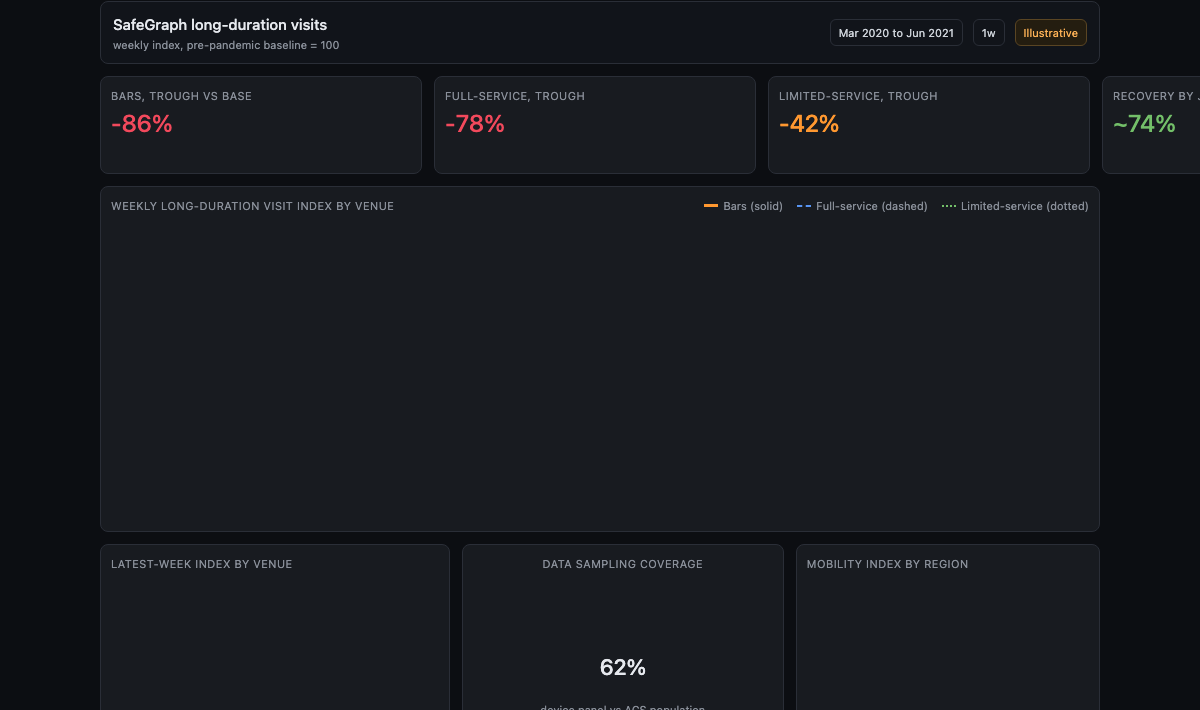
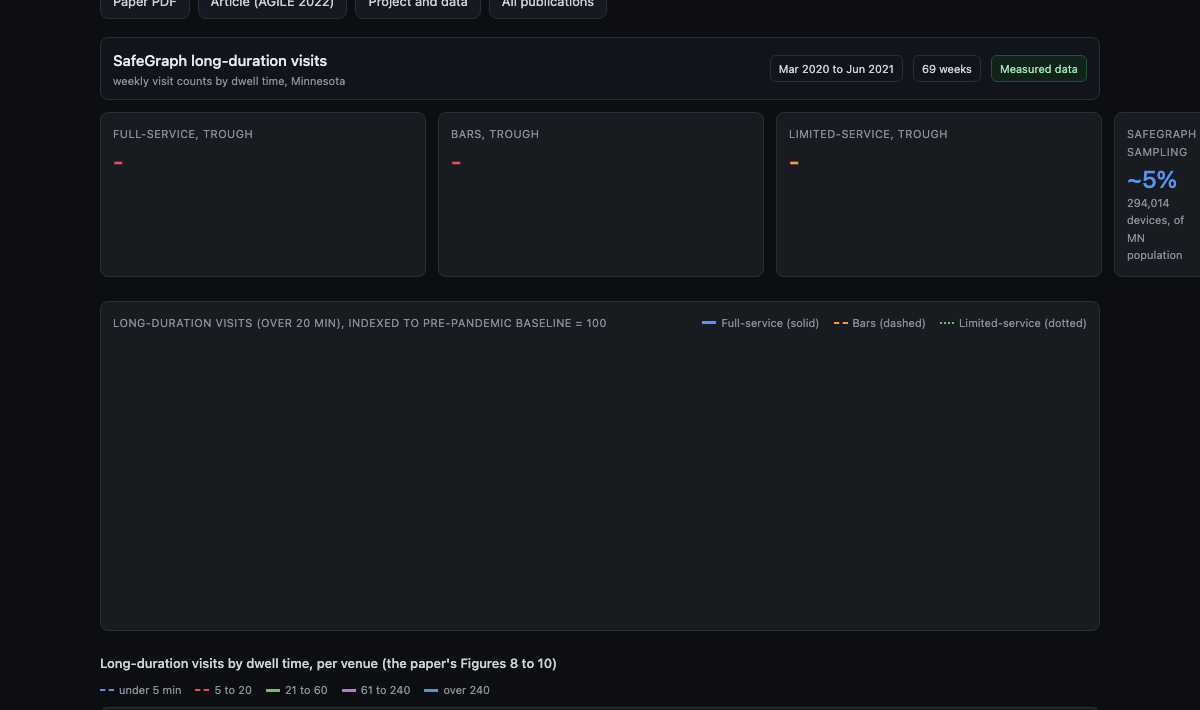
COVID dashboard: plot real SafeGraph long-duration visit data (AGILE 2022 Figs 8 to 10) and add source spreadsheets

diff --git a/projects/covid-mobility/index.html b/projects/covid-mobility/index.html
@@ -4,7 +4,7 @@
 <meta charset="utf-8">
 <meta name="viewport" content="width=device-width, initial-scale=1">
 <title>COVID-19 Mobility Decision Support - Arun Sharma</title>
-<meta name="description" content="A Grafana-style observability dashboard for the COVID-19 mobility decision-support project (Sharma et al., AGILE GIScience 2022): weekly long-duration visits to bars and restaurants in Minnesota with policy-intervention markers.">
+<meta name="description" content="A Grafana-style observability dashboard for the COVID-19 mobility decision-support project (Sharma et al., AGILE GIScience 2022): real weekly long-duration visits to bars and restaurants in Minnesota by dwell time, March 2020 to June 2021.">
 <link rel="canonical" href="https://arunshar.github.io/portfolio/projects/covid-mobility/">
 <style>
   :root{color-scheme:dark}
@@ -17,22 +17,26 @@
   .topnav a{color:#9aa0aa}
   h1{font-size:24px;font-weight:500;color:#e6e9ee;margin:0 0 4px}
   .meta{font-size:13px;color:#8a909a;margin:0 0 14px}
-  .btns{display:flex;flex-wrap:wrap;gap:8px;margin-bottom:22px}
+  .btns{display:flex;flex-wrap:wrap;gap:8px;margin-bottom:18px}
   .btn{font-size:13px;color:#cdd2d9;border:0.5px solid #2a2e37;border-radius:8px;padding:6px 12px;background:#161922}
   .btn:hover{border-color:#5794f2;color:#fff}
-  .pan{background:#181b20;border:0.5px solid #2a2e37;border-radius:8px;padding:10px}
+  .pan{background:#181b20;border:0.5px solid #2a2e37;border-radius:8px;padding:12px;margin-bottom:12px}
   .ttl{font-size:11px;color:#8a909a;letter-spacing:.04em;text-transform:uppercase;margin:0 0 6px}
   .big{font-size:24px;font-weight:500;line-height:1}
   .sub{font-size:11px;color:#8a909a;margin-top:3px}
   .grid4{display:grid;grid-template-columns:repeat(4,1fr);gap:12px;margin-bottom:12px}
-  .grid3{display:grid;grid-template-columns:1.15fr 0.85fr 1fr;gap:12px}
-  .head{display:flex;align-items:center;gap:10px;margin-bottom:12px;background:#11141a;border:0.5px solid #2a2e37;border-radius:8px;padding:10px 12px}
+  .head{display:flex;align-items:center;flex-wrap:wrap;gap:10px;margin-bottom:12px;background:#11141a;border:0.5px solid #2a2e37;border-radius:8px;padding:10px 12px}
   .pill{font-size:11px;color:#cdd2d9;border:0.5px solid #2a2e37;border-radius:6px;padding:4px 8px}
-  .pill.warn{color:#ffb357;border-color:#5a4523;background:#241d10}
-  .about{margin-top:26px;font-size:14px;color:#aeb4be;max-width:780px}
+  .pill.ok{color:#9fe3b0;border-color:#28503a;background:#10231a}
+  .legend{display:flex;flex-wrap:wrap;gap:14px;font-size:11px;color:#8a909a}
+  .legend span{display:flex;align-items:center;gap:5px}
+  .swatch{width:14px;height:0;display:inline-block}
+  .totrow{display:flex;flex-wrap:wrap;gap:14px;font-size:11px;color:#9aa0aa;margin-top:6px}
+  .sec{font-size:13px;color:#cdd2d9;font-weight:500;margin:22px 0 8px}
+  .about{margin-top:24px;font-size:14px;color:#aeb4be;max-width:800px}
   .about h2{font-size:17px;font-weight:500;color:#e6e9ee;margin:22px 0 8px}
-  .note{margin-top:14px;font-size:12.5px;color:#8a909a;border-left:2px solid #5a4523;padding:8px 12px;background:#16140d;border-radius:0}
-  @media(max-width:760px){.grid4{grid-template-columns:repeat(2,1fr)}.grid3{grid-template-columns:1fr}}
+  .note{margin-top:14px;font-size:12.5px;color:#8a909a;border-left:2px solid #28503a;padding:8px 12px;background:#0f1814;border-radius:0}
+  @media(max-width:760px){.grid4{grid-template-columns:repeat(2,1fr)}}
 </style>
 </head>
 <body>
@@ -51,104 +55,104 @@
   <div class="head">
     <div style="flex:1">
       <div style="font-size:15px;font-weight:500;color:#e6e9ee">SafeGraph long-duration visits</div>
-      <div style="font-size:11px;color:#8a909a">weekly index, pre-pandemic baseline = 100</div>
+      <div style="font-size:11px;color:#8a909a">weekly visit counts by dwell time, Minnesota</div>
     </div>
     <span class="pill">Mar 2020 to Jun 2021</span>
-    <span class="pill">1w</span>
-    <span class="pill warn">Illustrative</span>
+    <span class="pill">69 weeks</span>
+    <span class="pill ok">Measured data</span>
   </div>
 
   <div class="grid4">
-    <div class="pan"><div class="ttl">Bars, trough vs base</div><div class="big" style="color:#f2495c">-86%</div><div style="height:28px;position:relative"><canvas id="sp1" role="img" aria-label="Bars sparkline"></canvas></div></div>
-    <div class="pan"><div class="ttl">Full-service, trough</div><div class="big" style="color:#f2495c">-78%</div><div style="height:28px;position:relative"><canvas id="sp2" role="img" aria-label="Full-service sparkline"></canvas></div></div>
-    <div class="pan"><div class="ttl">Limited-service, trough</div><div class="big" style="color:#ff9830">-42%</div><div style="height:28px;position:relative"><canvas id="sp3" role="img" aria-label="Limited-service sparkline"></canvas></div></div>
-    <div class="pan"><div class="ttl">Recovery by Jun 2021</div><div class="big" style="color:#73bf69">~74%</div><div style="height:28px;position:relative"><canvas id="sp4" role="img" aria-label="Recovery sparkline"></canvas></div></div>
+    <div class="pan"><div class="ttl">Full-service, trough</div><div class="big" style="color:#f2495c" id="fsrD">-</div><div class="sub" id="fsrS"></div><div style="height:26px;position:relative;margin-top:4px"><canvas id="sp1" role="img" aria-label="Full-service long-duration visits sparkline"></canvas></div></div>
+    <div class="pan"><div class="ttl">Bars, trough</div><div class="big" style="color:#f2495c" id="barsD">-</div><div class="sub" id="barsS"></div><div style="height:26px;position:relative;margin-top:4px"><canvas id="sp2" role="img" aria-label="Bars long-duration visits sparkline"></canvas></div></div>
+    <div class="pan"><div class="ttl">Limited-service, trough</div><div class="big" style="color:#ff9830" id="lsrD">-</div><div class="sub" id="lsrS"></div><div style="height:26px;position:relative;margin-top:4px"><canvas id="sp3" role="img" aria-label="Limited-service long-duration visits sparkline"></canvas></div></div>
+    <div class="pan"><div class="ttl">SafeGraph sampling</div><div class="big" style="color:#5794f2">~5%</div><div class="sub">294,014 devices, of MN population</div></div>
   </div>
 
-  <div class="pan" style="margin-bottom:12px">
+  <div class="pan">
     <div style="display:flex;align-items:center;justify-content:space-between;flex-wrap:wrap;gap:8px;margin-bottom:6px">
-      <div class="ttl" style="margin:0">Weekly long-duration visit index by venue</div>
-      <div style="display:flex;gap:14px;font-size:11px;color:#8a909a">
-        <span style="display:flex;align-items:center;gap:5px"><span style="width:14px;height:3px;background:#ff9830;display:inline-block"></span>Bars (solid)</span>
-        <span style="display:flex;align-items:center;gap:5px"><span style="width:14px;height:0;border-top:2px dashed #5794f2;display:inline-block"></span>Full-service (dashed)</span>
-        <span style="display:flex;align-items:center;gap:5px"><span style="width:14px;height:0;border-top:2px dotted #73bf69;display:inline-block"></span>Limited-service (dotted)</span>
+      <div class="ttl" style="margin:0">Long-duration visits (over 20 min), indexed to pre-pandemic baseline = 100</div>
+      <div class="legend">
+        <span><span class="swatch" style="border-top:3px solid #5794f2"></span>Full-service (solid)</span>
+        <span><span class="swatch" style="border-top:2px dashed #ff9830"></span>Bars (dashed)</span>
+        <span><span class="swatch" style="border-top:2px dotted #73bf69"></span>Limited-service (dotted)</span>
       </div>
     </div>
-    <div style="height:300px;position:relative"><canvas id="ts" role="img" aria-label="Weekly long-duration visit index for bars, full-service and limited-service restaurants from March 2020 to June 2021, showing a sharp March 2020 collapse, partial recovery, a winter 2020 dip at the dining closure, and recovery through spring 2021."></canvas></div>
+    <div style="height:280px;position:relative"><canvas id="overview" role="img" aria-label="Long-duration visits indexed to pre-pandemic baseline for full-service, bars, and limited-service, March 2020 to June 2021, showing a sharp April 2020 collapse, recovery, a winter 2020 dip at the dining closure, and recovery through spring 2021."></canvas></div>
   </div>
 
-  <div class="grid3">
-    <div class="pan">
-      <div class="ttl">Latest-week index by venue</div>
-      <div style="height:160px;position:relative"><canvas id="bar" role="img" aria-label="Latest-week visit index by venue."></canvas></div>
-    </div>
-    <div class="pan" style="text-align:center">
-      <div class="ttl">Data sampling coverage</div>
-      <div style="height:120px;position:relative"><canvas id="g" role="img" aria-label="Sampling coverage gauge at 62 percent."></canvas>
-        <div style="position:absolute;top:60%;left:0;right:0"><div style="font-size:22px;font-weight:500;color:#e6e9ee">62%</div></div>
-      </div>
-      <div class="sub">device panel vs ACS population</div>
-    </div>
-    <div class="pan">
-      <div class="ttl">Mobility index by region</div>
-      <div id="regions" style="display:grid;grid-template-columns:1fr 1fr;gap:8px"></div>
-    </div>
+  <div class="sec">Long-duration visits by dwell time, per venue (the paper's Figures 8 to 10)</div>
+  <div class="legend" style="margin-bottom:8px">
+    <span><span class="swatch" style="border-top:2px dashed #5794f2"></span>under 5 min</span>
+    <span><span class="swatch" style="border-top:2px dashed #f2495c"></span>5 to 20</span>
+    <span><span class="swatch" style="border-top:3px solid #73bf69"></span>21 to 60</span>
+    <span><span class="swatch" style="border-top:3px solid #b877d9"></span>61 to 240</span>
+    <span><span class="swatch" style="border-top:3px solid #3aa6b9"></span>over 240</span>
   </div>
+
+  <div class="pan"><div class="ttl" id="t-fsr">Full-service restaurants</div><div style="height:230px;position:relative"><canvas id="v-fsr" role="img" aria-label="Full-service restaurant weekly visits by dwell-time bucket."></canvas></div><div class="totrow" id="tot-fsr"></div></div>
+  <div class="pan"><div class="ttl" id="t-lsr">Limited-service restaurants</div><div style="height:230px;position:relative"><canvas id="v-lsr" role="img" aria-label="Limited-service restaurant weekly visits by dwell-time bucket."></canvas></div><div class="totrow" id="tot-lsr"></div></div>
+  <div class="pan"><div class="ttl" id="t-bars">Bars</div><div style="height:230px;position:relative"><canvas id="v-bars" role="img" aria-label="Bar weekly visits by dwell-time bucket."></canvas></div><div class="totrow" id="tot-bars"></div></div>
 
   <div class="about">
     <h2>About this dashboard</h2>
-    <p>The COVID-19 pandemic reshaped where and how long people gathered. This panel reframes the
-    community-engaged decision-support system from Sharma <em>et al.</em> (AGILE: GIScience Series,
-    2022) as an observability dashboard. The underlying system was built with policymakers in public
-    health, economic management, transportation, and transit to answer questions about long-duration
-    visits to high-risk venue categories (bars, full-service restaurants, limited-service
-    restaurants) from aggregated, privacy-protected mobile-device data, alongside fine-resolution
-    device-count maps to expose spatial sampling bias.</p>
-    <p>The time series tracks the weekly long-duration-visit index per venue type, normalized to a
-    pre-pandemic baseline of 100, with markers at the major Minnesota policy interventions
-    (stay-at-home order, phased reopening, the winter 2020 dining closure, and spring 2021
-    reopening). The gauge and the regional panel summarize data quality and geographic spread, the
-    two recurring concerns end-users raised when interpreting the reports.</p>
-    <div class="note">Illustrative UI. The curves model the documented 2020 to 2021 mobility pattern
-    and are not the project's measured weekly figures. For the measured data and the weekly report
-    archive, see the <a href="https://www.spatial.cs.umn.edu/Project/covid_19.html" target="_blank" rel="noopener">project page</a>.
-    Source: Arun Sharma, Majid Farhadloo, Yan Li, Jayant Gupta, Aditya Kulkarni, Shashi Shekhar,
-    "Understanding COVID-19 Effects on Mobility: A Community-Engaged Approach,"
+    <p>This panel reframes the community-engaged decision-support system from Sharma <em>et al.</em>
+    (AGILE: GIScience Series, 2022) as an observability dashboard. The system was built with
+    policymakers in public health, economic management, transportation, and transit to track
+    long-duration visits to high-risk venue categories from aggregated, privacy-protected
+    SafeGraph mobile-device data.</p>
+    <p>The charts plot the project's measured weekly visit counts to bars, full-service restaurants,
+    and limited-service restaurants in Minnesota, broken out by dwell-time bucket (under 5, 5 to 20,
+    21 to 60, 61 to 240, and over 240 minutes), from March 2020 to June 2021. Markers show the major
+    Minnesota policy interventions (the March 27, 2020 stay-at-home order, the June 2020 reopening,
+    the November 2020 dining shutdown, and the January 2021 reopening). The per-venue panels mirror
+    Figures 8 to 10 of the paper; the overview indexes the long-duration visits (over 20 minutes) of
+    each venue to its own pre-pandemic baseline so the three are comparable on one axis.</p>
+    <div class="note">Data: the project's weekly SafeGraph long-duration-visit reports, 07/16/2021
+    release (69 weeks, 03/02/2020 to 06/28/2021). Source spreadsheets:
+    <a href="data/Full_service_restaurant_0716.xlsx">full-service</a>,
+    <a href="data/Limited_service_restaurants_0716.xlsx">limited-service</a>,
+    <a href="data/Bars_0716.xlsx">bars</a>. SafeGraph covers about 5 percent of the Minnesota
+    population (294,014 devices); see the paper for the sampling-bias analysis. Citation: Arun Sharma,
+    Majid Farhadloo, Yan Li, Jayant Gupta, Aditya Kulkarni, Shashi Shekhar, "Understanding COVID-19
+    Effects on Mobility: A Community-Engaged Approach,"
     <a href="https://doi.org/10.5194/agile-giss-3-14-2022" target="_blank" rel="noopener">AGILE: GIScience Series 3:14 (2022)</a>, CC-BY 4.0.</div>
   </div>
 </div>
 
+<script src="covid-data.js"></script>
 <script src="https://cdnjs.cloudflare.com/ajax/libs/Chart.js/4.4.1/chart.umd.js"></script>
 <script>
 (function(){
-  var n=69;
-  function lerp(a){var o=[];for(var w=0;w<n;w++){var lo=a[0],hi=a[a.length-1];for(var i=0;i<a.length-1;i++){if(w>=a[i][0]&&w<=a[i+1][0]){lo=a[i];hi=a[i+1];break;}}var t=hi[0]===lo[0]?0:(w-lo[0])/(hi[0]-lo[0]);o.push(lo[1]+(hi[1]-lo[1])*t);}return o;}
-  var seed=42;function rnd(){seed=(seed*1103515245+12345)&0x7fffffff;return seed/0x7fffffff;}
-  function jit(arr,amp){return arr.map(function(v){return Math.max(0,Math.round((v+(rnd()-0.5)*2*amp)*10)/10);});}
-  var bars=jit(lerp([[0,100],[3,90],[5,18],[7,14],[12,30],[20,48],[30,55],[35,50],[38,22],[42,20],[46,35],[52,50],[60,62],[68,72]]),2.2);
-  var fsr =jit(lerp([[0,100],[3,92],[6,26],[8,22],[14,45],[22,58],[32,62],[38,30],[43,33],[50,55],[60,68],[68,74]]),2);
-  var lsr =jit(lerp([[0,100],[4,70],[7,58],[12,72],[20,82],[30,88],[38,78],[44,82],[52,88],[60,92],[68,94]]),1.6);
-  var labels=[];var d=new Date(2020,2,2);var mo=['Jan','Feb','Mar','Apr','May','Jun','Jul','Aug','Sep','Oct','Nov','Dec'];
-  for(var i=0;i<n;i++){labels.push((d.getDate()<=7?mo[d.getMonth()]+(d.getMonth()===0?" '"+String(d.getFullYear()).slice(2):""):''));d=new Date(d.getTime()+7*864e5);}
+  var C=window.COVID; if(!C){return;}
   var grid='rgba(140,144,154,0.13)',tick='#8a909a';
-  function spark(id,data,col){new Chart(document.getElementById(id),{type:'line',data:{labels:data.map(function(_,i){return i;}),datasets:[{data:data,borderColor:col,borderWidth:1.5,pointRadius:0,tension:.35,fill:false}]},options:{responsive:true,maintainAspectRatio:false,plugins:{legend:{display:false},tooltip:{enabled:false}},scales:{x:{display:false},y:{display:false}}}});}
-  spark('sp1',bars,'#ff9830');spark('sp2',fsr,'#5794f2');spark('sp3',lsr,'#ff9830');spark('sp4',bars.slice(40),'#73bf69');
+  var BC={"<5":"#5794f2","5-20":"#f2495c","21-60":"#73bf69","61-240":"#b877d9",">240":"#3aa6b9"};
+  var BD={"<5":[5,4],"5-20":[5,4],"21-60":[],"61-240":[],">240":[]};
+  var VC={"Full-service restaurants":"#5794f2","Bars":"#ff9830","Limited-service restaurants":"#73bf69"};
+  var VD={"Full-service restaurants":[],"Bars":[6,4],"Limited-service restaurants":[2,3]};
+  function kfmt(v){return v>=1000?(Math.round(v/100)/10)+'k':v;}
+  function nf(v){return v.toLocaleString();}
+  var vlines={id:'vl',afterDraw:function(c){var a=c.$vl||[];var ca=c.chartArea,x=c.scales.x,ctx=c.ctx;ctx.save();a.forEach(function(o){var px=x.getPixelForValue(o.i);ctx.strokeStyle='rgba(200,205,215,0.30)';ctx.setLineDash([4,4]);ctx.beginPath();ctx.moveTo(px,ca.top);ctx.lineTo(px,ca.bottom);ctx.stroke();ctx.setLineDash([]);ctx.fillStyle='#aeb4be';ctx.font='10px sans-serif';ctx.fillText(o.t,px+3,ca.top+10);});ctx.restore();}};
 
-  var vlines={id:'vl',afterDraw:function(c){var a=c.$vl||[];var ca=c.chartArea,x=c.scales.x,ctx=c.ctx;ctx.save();a.forEach(function(o){var px=x.getPixelForValue(o.i);ctx.strokeStyle='rgba(200,205,215,0.32)';ctx.setLineDash([4,4]);ctx.beginPath();ctx.moveTo(px,ca.top);ctx.lineTo(px,ca.bottom);ctx.stroke();ctx.setLineDash([]);ctx.fillStyle='#aeb4be';ctx.font='11px sans-serif';ctx.fillText(o.t,px+3,ca.top+11);});ctx.restore();}};
-  var ts=new Chart(document.getElementById('ts'),{type:'line',plugins:[vlines],data:{labels:labels,datasets:[
-    {label:'Bars',data:bars,borderColor:'#ff9830',borderWidth:1.8,pointRadius:0,tension:.3},
-    {label:'Full-service',data:fsr,borderColor:'#5794f2',borderWidth:1.8,borderDash:[6,4],pointRadius:0,tension:.3},
-    {label:'Limited-service',data:lsr,borderColor:'#73bf69',borderWidth:1.8,borderDash:[2,3],pointRadius:0,tension:.3}
-  ]},options:{responsive:true,maintainAspectRatio:false,interaction:{mode:'index',intersect:false},plugins:{legend:{display:false},tooltip:{backgroundColor:'#0c0e12',borderColor:'#2a2e37',borderWidth:1}},scales:{x:{grid:{color:grid},ticks:{color:tick,autoSkip:false,maxRotation:0,font:{size:11}}},y:{grid:{color:grid},ticks:{color:tick,font:{size:11}},title:{display:true,text:'index (base=100)',color:tick,font:{size:11}}}}});
-  ts.$vl=[{i:4,t:'stay-at-home'},{i:14,t:'phase reopen'},{i:38,t:'dining closed'},{i:50,t:'reopen'}];ts.update();
+  function spark(id,data,col){new Chart(document.getElementById(id),{type:'line',data:{labels:data.map(function(_,i){return i;}),datasets:[{data:data,borderColor:col,borderWidth:1.4,pointRadius:0,tension:.3}]},options:{responsive:true,maintainAspectRatio:false,plugins:{legend:{display:false},tooltip:{enabled:false}},scales:{x:{display:false},y:{display:false}}}});}
+  var tiles=[["Full-service restaurants","sp1","fsrD","fsrS"],["Bars","sp2","barsD","barsS"],["Limited-service restaurants","sp3","lsrD","lsrS"]];
+  tiles.forEach(function(t){var s=C.long[t[0]];var dr=Math.round(100*(1-Math.min.apply(null,s)/s[0]));
+    document.getElementById(t[2]).textContent='-'+dr+'%';
+    document.getElementById(t[3]).textContent='vs baseline (Apr 2020)';
+    spark(t[1],s,VC[t[0]]);});
 
-  new Chart(document.getElementById('bar'),{type:'bar',data:{labels:['Bars','Full-service','Limited-service'],datasets:[{data:[bars[68],fsr[68],lsr[68]],backgroundColor:['#ff9830','#5794f2','#73bf69'],borderRadius:3}]},options:{indexAxis:'y',responsive:true,maintainAspectRatio:false,plugins:{legend:{display:false},tooltip:{enabled:true}},scales:{x:{grid:{color:grid},ticks:{color:tick,font:{size:11}},suggestedMax:100},y:{grid:{display:false},ticks:{color:'#c7ccd4',font:{size:11}}}}});
+  function ov(){var ds=["Full-service restaurants","Bars","Limited-service restaurants"].map(function(v){var s=C.long[v];var b0=s[0];return {label:v,data:s.map(function(x){return Math.round(100*x/b0);}),borderColor:VC[v],borderDash:VD[v],borderWidth:1.8,pointRadius:0,tension:.25};});
+    var ch=new Chart(document.getElementById('overview'),{type:'line',plugins:[vlines],data:{labels:C.labels,datasets:ds},options:{responsive:true,maintainAspectRatio:false,interaction:{mode:'index',intersect:false},plugins:{legend:{display:false},tooltip:{backgroundColor:'#0c0e12',borderColor:'#2a2e37',borderWidth:1}},scales:{x:{grid:{color:grid},ticks:{color:tick,autoSkip:false,maxRotation:0,font:{size:10}}},y:{grid:{color:grid},ticks:{color:tick,font:{size:10}},title:{display:true,text:'index (baseline=100)',color:tick,font:{size:10}}}}});
+    ch.$vl=C.ann;ch.update();}
+  ov();
 
-  new Chart(document.getElementById('g'),{type:'doughnut',data:{datasets:[{data:[62,38],backgroundColor:['#73bf69','#23272f'],borderWidth:0,circumference:260,rotation:230}]},options:{responsive:true,maintainAspectRatio:false,cutout:'74%',plugins:{legend:{display:false},tooltip:{enabled:false}}}});
-
-  var reg=[['Twin Cities Metro',58],['Rochester',64],['Duluth',61],['St. Cloud',69],['Mankato',72],['Greater MN',75]];
-  function hcol(v){var t=(v-55)/22;t=Math.max(0,Math.min(1,t));var r=Math.round(242+(115-242)*t),g=Math.round(73+(191-73)*t),b=Math.round(92+(105-92)*t);return 'rgb('+r+','+g+','+b+')';}
-  document.getElementById('regions').innerHTML=reg.map(function(o){return '<div style="background:#14171c;border:0.5px solid #2a2e37;border-radius:6px;padding:6px 8px"><div style="font-size:11px;color:#aeb4be">'+o[0]+'</div><div style="font-size:16px;font-weight:500;color:'+hcol(o[1])+'">'+o[1]+'</div></div>';}).join('');
+  function venue(id,v,totId){var ds=C.buckets.map(function(b){return {label:b,data:C.series[v][b],borderColor:BC[b],borderDash:BD[b],borderWidth:1.5,pointRadius:0,tension:.22};});
+    var ch=new Chart(document.getElementById(id),{type:'line',plugins:[vlines],data:{labels:C.labels,datasets:ds},options:{responsive:true,maintainAspectRatio:false,interaction:{mode:'index',intersect:false},plugins:{legend:{display:false},tooltip:{backgroundColor:'#0c0e12',borderColor:'#2a2e37',borderWidth:1}},scales:{x:{grid:{color:grid},ticks:{color:tick,autoSkip:false,maxRotation:0,font:{size:10}}},y:{grid:{color:grid},ticks:{color:tick,font:{size:10},callback:function(val){return kfmt(val);}},title:{display:true,text:'visits',color:tick,font:{size:10}}}}});
+    ch.$vl=C.ann;ch.update();
+    var t=C.totals[v];document.getElementById(totId).innerHTML='Total visits: '+C.buckets.map(function(b){return '<span><span style="color:'+BC[b]+'">&#9632;</span> '+b+': '+nf(t[b])+'</span>';}).join('');}
+  venue('v-fsr',"Full-service restaurants",'tot-fsr');
+  venue('v-lsr',"Limited-service restaurants",'tot-lsr');
+  venue('v-bars',"Bars",'tot-bars');
 })();
 </script>
 </body>

diff --git a/projects/covid-mobility/covid-data.js b/projects/covid-mobility/covid-data.js
@@ -1,0 +1,1 @@
+window.COVID={"buckets":["<5","5-20","21-60","61-240",">240"],"longBuckets":["21-60","61-240",">240"],"weeks":["03/02-03/09","03/09-03/16","03/16-03/23","03/23-03/30","03/30-04/06","04/06-04/13","04/13-04/20","04/20-04/27","04/27-05/04","05/04-05/11","05/11-05/18","05/18-05/25","05/25-06/01","06/01-06/08","06/08-06/15","06/15-06/22","06/22-06/29","06/29-07/06","07/06-07/13","07/13-07/20","07/20-07/27","07/27-08/03","08/03-08/10","08/10-08/17","08/17-08/24","08/24-08/31","08/31-09/07","09/07-09/14","09/14-09/21","09/21-09/28","09/28-10/05","10/05-10/12","10/12-10/19","10/19-10/26","10/26-11/02","11/02-11/09","11/09-11/16","11/16-11/23","11/23-11/30","11/30-12/07","12/07-12/14","12/14-12/21","12/21-12/28","12/28-01/04","01/04-01/11","01/11-01/18","01/18-01/25","01/25-02/01","02/01-02/08","02/08-02/15","02/15-02/22","02/15-03/01","03/01-03/08","03/08-03/15","03/15-03/22","03/22-03/29","03/29-04/05","04/05-04/12","04/12-04/19","04/19-04/26","04/26-05/02","05/03-05/10","05/10-05/17","05/17-05/24","05/24-05/31","05/31-06/07","06/07-06/14","06/14-06/21","06/21-06/28"],"labels":["Mar'20","","","","","Apr","","","","May","","","","Jun","","","","","Jul","","","","Aug","","","","","Sep","","","","Oct","","","","Nov","","","","","Dec","","","","Jan'21","","","","Feb","","","","Mar","","","","","Apr","","","","May","","","","","Jun","",""],"ann":[{"i":4,"t":"stay-at-home"},{"i":14,"t":"reopen"},{"i":38,"t":"dining closed"},{"i":45,"t":"reopen"}],"series":{"Full-service restaurants":{"<5":[7913,6554,4751,4909,4375,3792,3486,4433,4693,5007,4951,5243,5634,6435,6178,6087,7406,6296,6583,7042,6958,7461,6943,7615,8619,7362,7612,6804,6300,7152,7671,7218,6749,6566,6249,5735,5049,4890,4526,5787,5758,5775,4122,5354,5472,5302,4865,4696,4867,5164,5716,6220,6330,6420,6569,6266,6926,7481,6961,6455,6575,7017,7341,6841,5968,5448,5172,5520,5314],"5-20":[106033,91356,54059,52144,49830,47218,52467,60688,63978,67681,64801,72128,72496,83204,85571,87807,92781,86856,91329,93532,94473,98663,95373,94720,99232,87970,93983,85382,83598,85865,83907,87013,82298,73486,75434,75451,64675,65647,56043,66132,65336,67369,51715,62929,63854,64834,62807,64606,62774,67409,72321,78865,80182,82409,84421,81923,82435,92844,86968,84339,89657,97030,97900,98394,98793,95612,93912,95741,94112],"21-60":[124950,107992,27286,17716,16234,15813,16232,19365,21076,23142,22186,26354,27343,48173,63864,75045,79676,72852,80668,82121,82332,85351,84779,88353,92340,82658,89890,81455,80679,82292,78618,81375,80219,70944,69366,68442,56696,46963,20621,25073,24561,25817,19927,24317,26208,58932,59776,61376,57756,63684,66079,70296,71459,74822,80103,77509,74039,75156,78977,79228,82159,90197,91069,93042,91266,93304,93996,98206,96883],"61-240":[114903,95688,27194,19211,16525,15643,15307,18255,19249,19760,20241,22553,22629,42735,54048,62428,64774,56189,64472,66175,67034,70444,69107,71455,74467,67448,73620,71482,71016,72999,69083,71268,70380,66242,62951,59185,50839,44362,19235,22861,23076,24144,18073,22234,25422,57950,56319,59190,56064,62591,63603,66278,65199,66967,72077,67536,60593,65416,68661,70807,70479,81571,76783,78922,78377,77041,80116,85709,82844],">240":[40323,36021,22505,20437,15049,14386,14194,16180,16285,15628,17009,18381,17885,20351,21728,22547,23682,21222,22266,23592,24313,26393,25193,25365,26340,24260,25585,25429,25283,26647,25163,23771,24451,23774,23402,22944,20311,20122,14104,16764,16985,16990,13747,15550,17943,20593,20006,21414,20634,20319,20540,19976,19916,20155,19525,19418,19566,20081,20337,19991,20117,21005,21495,21737,21965,20877,21847,22192,23117]},"Bars":{"<5":[116,70,57,46,37,32,30,54,63,55,46,50,60,86,79,94,112,77,85,90,95,108,84,127,123,114,119,117,106,119,107,124,99,94,93,78,50,48,46,63,84,93,51,71,64,55,74,57,58,66,76,76,96,79,90,81,99,117,106,92,88,83,108,113,100,88,82,81,65],"5-20":[1578,1364,705,547,481,456,435,540,637,643,642,814,815,1005,1136,1110,1226,1105,1243,1284,1324,1376,1515,1326,1353,1232,1421,1242,1337,1382,1275,1354,1169,988,943,937,826,755,759,836,858,986,889,934,758,817,844,800,794,853,1025,1019,1049,1099,1229,1124,1291,1391,1116,1170,1226,1391,1363,1388,1458,1256,1205,1321,1325],"21-60":[1858,1589,415,266,199,188,176,237,314,273,362,384,448,940,1115,1287,1339,1141,1344,1418,1469,1536,1564,1582,1633,1506,1636,1400,1426,1475,1272,1534,1317,1129,1049,1138,798,779,513,544,569,670,595,726,537,967,1009,950,897,1006,1143,1088,1155,1172,1391,1271,1360,1267,1287,1309,1404,1429,1603,1547,1527,1425,1359,1528,1470],"61-240":[2546,2130,443,294,226,196,207,232,294,300,304,372,383,844,1141,1201,1248,1055,1335,1333,1396,1443,1498,1552,1600,1313,1522,1436,1564,1515,1394,1555,1377,1342,1273,1187,984,754,342,430,439,517,455,464,431,1109,1094,1244,1162,1376,1351,1383,1400,1486,1688,1635,1554,1588,1528,1667,1707,1780,1721,1885,1836,1759,1663,1842,1901],">240":[838,772,416,320,217,214,228,281,299,221,282,280,267,342,357,358,399,359,452,452,494,472,458,455,440,360,419,399,401,361,374,364,412,394,385,360,323,247,235,285,278,304,265,286,319,369,333,386,350,385,372,375,351,348,342,347,361,435,451,438,426,414,434,380,439,331,427,382,404]},"Limited-service restaurants":{"<5":[9122,7986,5912,6355,6153,5641,5579,6909,7021,7342,7485,7934,8015,9210,8840,8456,9772,8526,9169,9606,9583,9611,9606,10081,11197,9622,9750,9430,8643,9874,10276,9802,9618,9226,9187,8437,7827,7574,6847,8724,8783,8743,6144,8124,8579,7741,7743,7651,7729,7961,9143,9908,10315,10117,10084,9906,10276,10748,10718,9851,9435,10059,10380,9905,7199,6677,6324,6374,6430],"5-20":[108845,93452,60599,63195,66244,64682,76894,89756,97487,95626,94107,104962,109143,117346,113152,110208,115112,110478,114357,116905,118889,123314,117414,115508,116911,108709,113478,108760,105552,105934,105228,108515,102269,88607,95999,97610,82777,87806,81717,96994,94542,97247,73032,95294,91767,78391,80079,80567,78654,85469,98437,111655,115778,116850,122911,116450,118712,125554,121655,119054,130368,136955,141116,140554,137947,144881,137107,134190,132740],"21-60":[48815,38381,13337,10911,10882,10298,11353,13458,15105,14989,14860,17155,18016,21805,22622,22663,25083,22709,25018,25631,25925,27210,26474,27020,28087,25949,26964,25265,24238,23958,23673,24214,24104,21516,22306,21599,18272,18167,14292,17643,17666,18198,13462,17166,17493,17736,17527,18099,17886,18209,19144,21128,22202,22174,23739,22775,23613,23919,24902,24090,25687,27362,28443,29216,27494,28865,28106,28270,28263],"61-240":[28208,20779,11650,9603,9053,8545,8690,9936,10180,10627,11054,11576,11529,14404,15024,14872,15852,13308,14721,15771,15681,15790,15443,15840,16343,16211,16671,16462,15756,16515,15802,16344,16299,15560,15305,14621,13657,13331,10122,12525,12929,13389,9611,11543,12856,13897,13658,14232,14210,13965,14593,15176,14976,14592,15382,15056,14783,15994,16247,16087,16097,16515,17057,17809,16935,16313,15731,15787,15907],">240":[14617,11630,9188,8331,7310,6718,6653,7504,7742,7808,8177,8667,8500,9594,9633,9927,10170,8487,8740,9414,9896,9507,9421,9481,10024,9392,9627,9331,8764,9006,8985,8952,9029,8696,9052,8404,7889,7689,6599,7899,8026,8295,6464,7445,8190,7964,7867,8407,8105,7654,8197,8088,7749,7731,7809,7674,7642,7833,7937,7727,8185,8345,8559,8752,8346,8497,8477,8737,8978]}},"totals":{"Full-service restaurants":{"<5":416949,"5-20":5446795,"21-60":4416678,"61-240":3867499,">240":1467323},"Bars":{"<5":5646,"5-20":73095,"21-60":74254,"61-240":81226,">240":25724},"Limited-service restaurants":{"<5":592995,"5-20":7262497,"21-60":1522801,"61-240":1000987,">240":590133}},"long":{"Full-service restaurants":[280176,239701,76985,57364,47808,45842,45733,53800,56610,58530,59436,67288,67857,111259,139640,160020,168132,150263,167406,171888,173679,182188,179079,185173,193147,174366,189095,178366,176978,181938,172864,176414,175050,160960,155719,150571,127846,111447,53960,64698,64622,66951,51747,62101,69573,137475,136101,141980,134454,146594,150222,156550,156574,161944,171705,164463,154198,160653,167975,170026,172755,192773,189347,193701,191608,191222,195959,206107,202844],"Bars":[5242,4491,1274,880,642,598,611,750,907,794,948,1036,1098,2126,2613,2846,2986,2555,3131,3203,3359,3451,3520,3589,3673,3179,3577,3235,3391,3351,3040,3453,3106,2865,2707,2685,2105,1780,1090,1259,1286,1491,1315,1476,1287,2445,2436,2580,2409,2767,2866,2846,2906,3006,3421,3253,3275,3290,3266,3414,3537,3623,3758,3812,3802,3515,3449,3752,3775],"Limited-service restaurants":[91640,70790,34175,28845,27245,25561,26696,30898,33027,33424,34091,37398,38045,45803,47279,47462,51105,44504,48479,50816,51502,52507,51338,52341,54454,51552,53262,51058,48758,49479,48460,49510,49432,45772,46663,44624,39818,39187,31013,38067,38621,39882,29537,36154,38539,39597,39052,40738,40201,39828,41934,44392,44927,44497,46930,45505,46038,47746,49086,47904,49969,52222,54059,55777,52775,53675,52314,52794,53148]}};